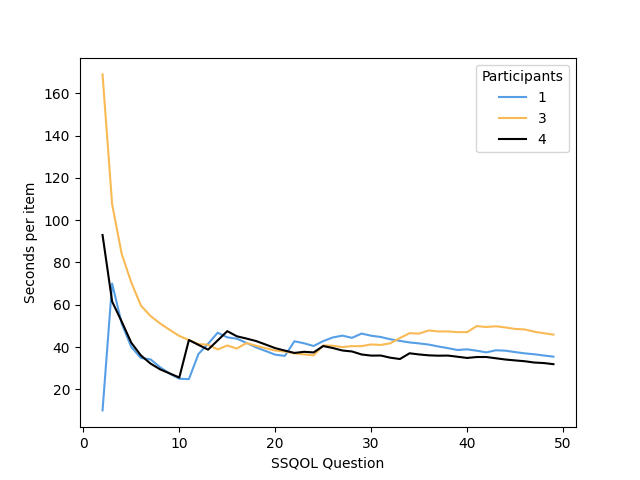
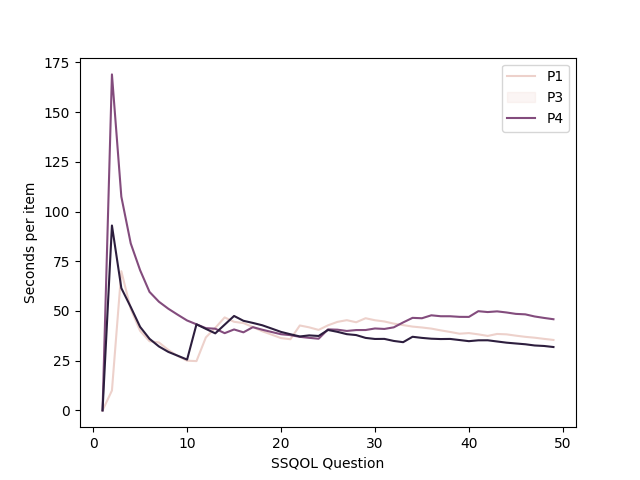
update

diff --git a/main.py b/main.py
@@ -56,49 +56,6 @@ SSQOL_only_questions['condition_number'] = SSQOL_only_questions.apply(lambda row
 SSQOL_only_questions['seconds-per-item'] = SSQOL_only_questions.apply(lambda row: rushing(row), axis=1)
 
 
-# Custom color palette
-customPalette = ['#630C3A', '#39C8C6', '#D3500C']
-# Plot the rushing
-rushingPlot = sns.lineplot(x='question', y='seconds-per-item', hue='user_id', data=SSQOL_only_questions, legend=True)
-plt.xlabel('SSQOL Question')
-plt.ylabel('Seconds per item')
-plt.legend(labels=['P1', 'P3', 'P4'])
-plt.savefig('rushingPlot.png')
-plt.show()
-# Plot the time
-sns.lineplot(x='question', y='Cumulative_duration_minutes', hue='user_id', data=SSQOL_only_questions)
-#ax2 = plt.twinx()
-#sns.lineplot(x='question', y='duration_seconds', hue='user_id', data=SSQOL_only_questions, ax=ax2, legend=False
-plt.show()
-
-# Plot answers distribution by condition using histplot
-answerDistributionHistplot = sns.histplot(data=SSQOL_only_questions, x='answer', hue='condition', bins=5, multiple='stack', kde=True)
-plt.title('Distribution of Answers by Condition')
-plt.xlabel('Answer')
-plt.ylabel('Count')
-plt.show()
-
-# Plot answers distribution by condition using boxplot
-answerDistributionBoxplot = sns.boxplot(data=SSQOL_only_questions, x='answer', y="condition", orient='h')
-answerDistributionSwarnPlot = sns.swarmplot(data=SSQOL_only_questions, x='answer', y="condition", orient='h', color='black', size=5, alpha=0.5)
-plt.title('Distribution of Answers by Condition')
-plt.xlabel('SSQOL Answer')
-plt.ylabel('Condition')
-plt.savefig('answerDistributionPrConditionBoxplot.png')
-plt.show()
-
-# Plot answers per user id
-answerDistributionBoxplot = sns.boxplot(data=SSQOL_only_questions, x='answer', y="user_id", orient='h')
-answerDistributionSwarnPlot = sns.swarmplot(data=SSQOL_only_questions, x='answer', y="user_id", orient='h', color='black', size=5, alpha=0.5)
-plt.title('Distribution of Answers by Paricipant')
-plt.xlabel('SSQOL Answer')
-plt.ylabel('Participant')
-plt.savefig('answerDistributionBoxplot.png')
-plt.show()
-
-# 2nd plot for answers per user id
-sns.lineplot(x='question', y='answer', hue='user_id', data=SSQOL_only_questions)
-plt.show()
 
 # filter out user 3
 SSQOL_without3 = SSQOL_only_questions.loc[SSQOL['user_id'] != 3]
@@ -148,5 +105,8 @@ print('not work', SSQOL_only_questions['duration_seconds'].loc[1])
 
 # SSQOL as excel
 SSQOL_only_questions.to_excel('preprocessedata.xlsx')
+
+# descriptive statistics of SSQOL per user and condition
+print(SSQOL_only_questions.groupby(['user_id', 'condition'])['answer'].describe())
 
 #display(SSQOL_only_questions)
